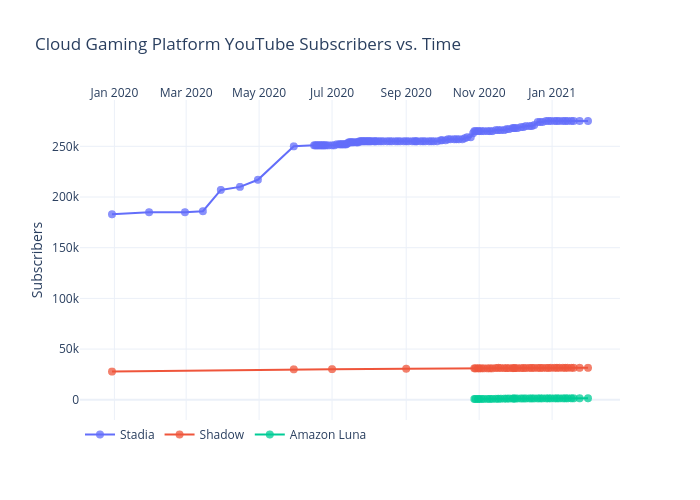
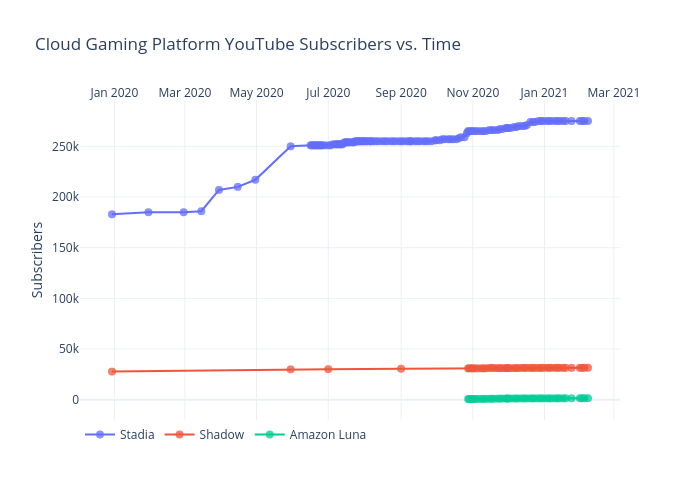
Add files via upload

diff --git a/youtube_platforms/figure.js b/youtube_platforms/figure.js
@@ -149,7 +149,9 @@ var figure = {
                 "2021-01-26",
                 "2021-01-28",
                 "2021-01-31",
-                "2021-02-02"
+                "2021-02-02",
+                "2021-02-04",
+                "2021-02-07"
             ],
             "ysrc": "jdeslip:352:b82b2c",
             "y": [
@@ -289,6 +291,9 @@ var figure = {
                 "275000",
                 null,
                 null,
+                "275000",
+                "275000",
+                "275000",
                 "275000"
             ],
             "marker": {
@@ -448,7 +453,9 @@ var figure = {
                 "2021-01-26",
                 "2021-01-28",
                 "2021-01-31",
-                "2021-02-02"
+                "2021-02-02",
+                "2021-02-04",
+                "2021-02-07"
             ],
             "ysrc": "jdeslip:352:672089",
             "y": [
@@ -588,7 +595,10 @@ var figure = {
                 "31500",
                 null,
                 null,
-                "31500"
+                "31500",
+                "31500",
+                "31600",
+                "31600"
             ],
             "marker": {
                 "size": 8,
@@ -747,7 +757,9 @@ var figure = {
                 "2021-01-26",
                 "2021-01-28",
                 "2021-01-31",
-                "2021-02-02"
+                "2021-02-02",
+                "2021-02-04",
+                "2021-02-07"
             ],
             "ysrc": "jdeslip:352:d22faa",
             "y": [
@@ -887,7 +899,10 @@ var figure = {
                 "1450",
                 null,
                 null,
-                "1480"
+                "1480",
+                "1500",
+                "1500",
+                "1520"
             ],
             "marker": {
                 "size": 8,
@@ -906,8 +921,8 @@ var figure = {
             "side": "top",
             "type": "date",
             "range": [
-                "2019-12-05 09:24:17.4816",
-                "2021-02-24 14:35:42.5184"
+                "2019-12-04 23:01:03.0152",
+                "2021-03-04 00:58:56.9848"
             ],
             "title": {
                 "text": ""
